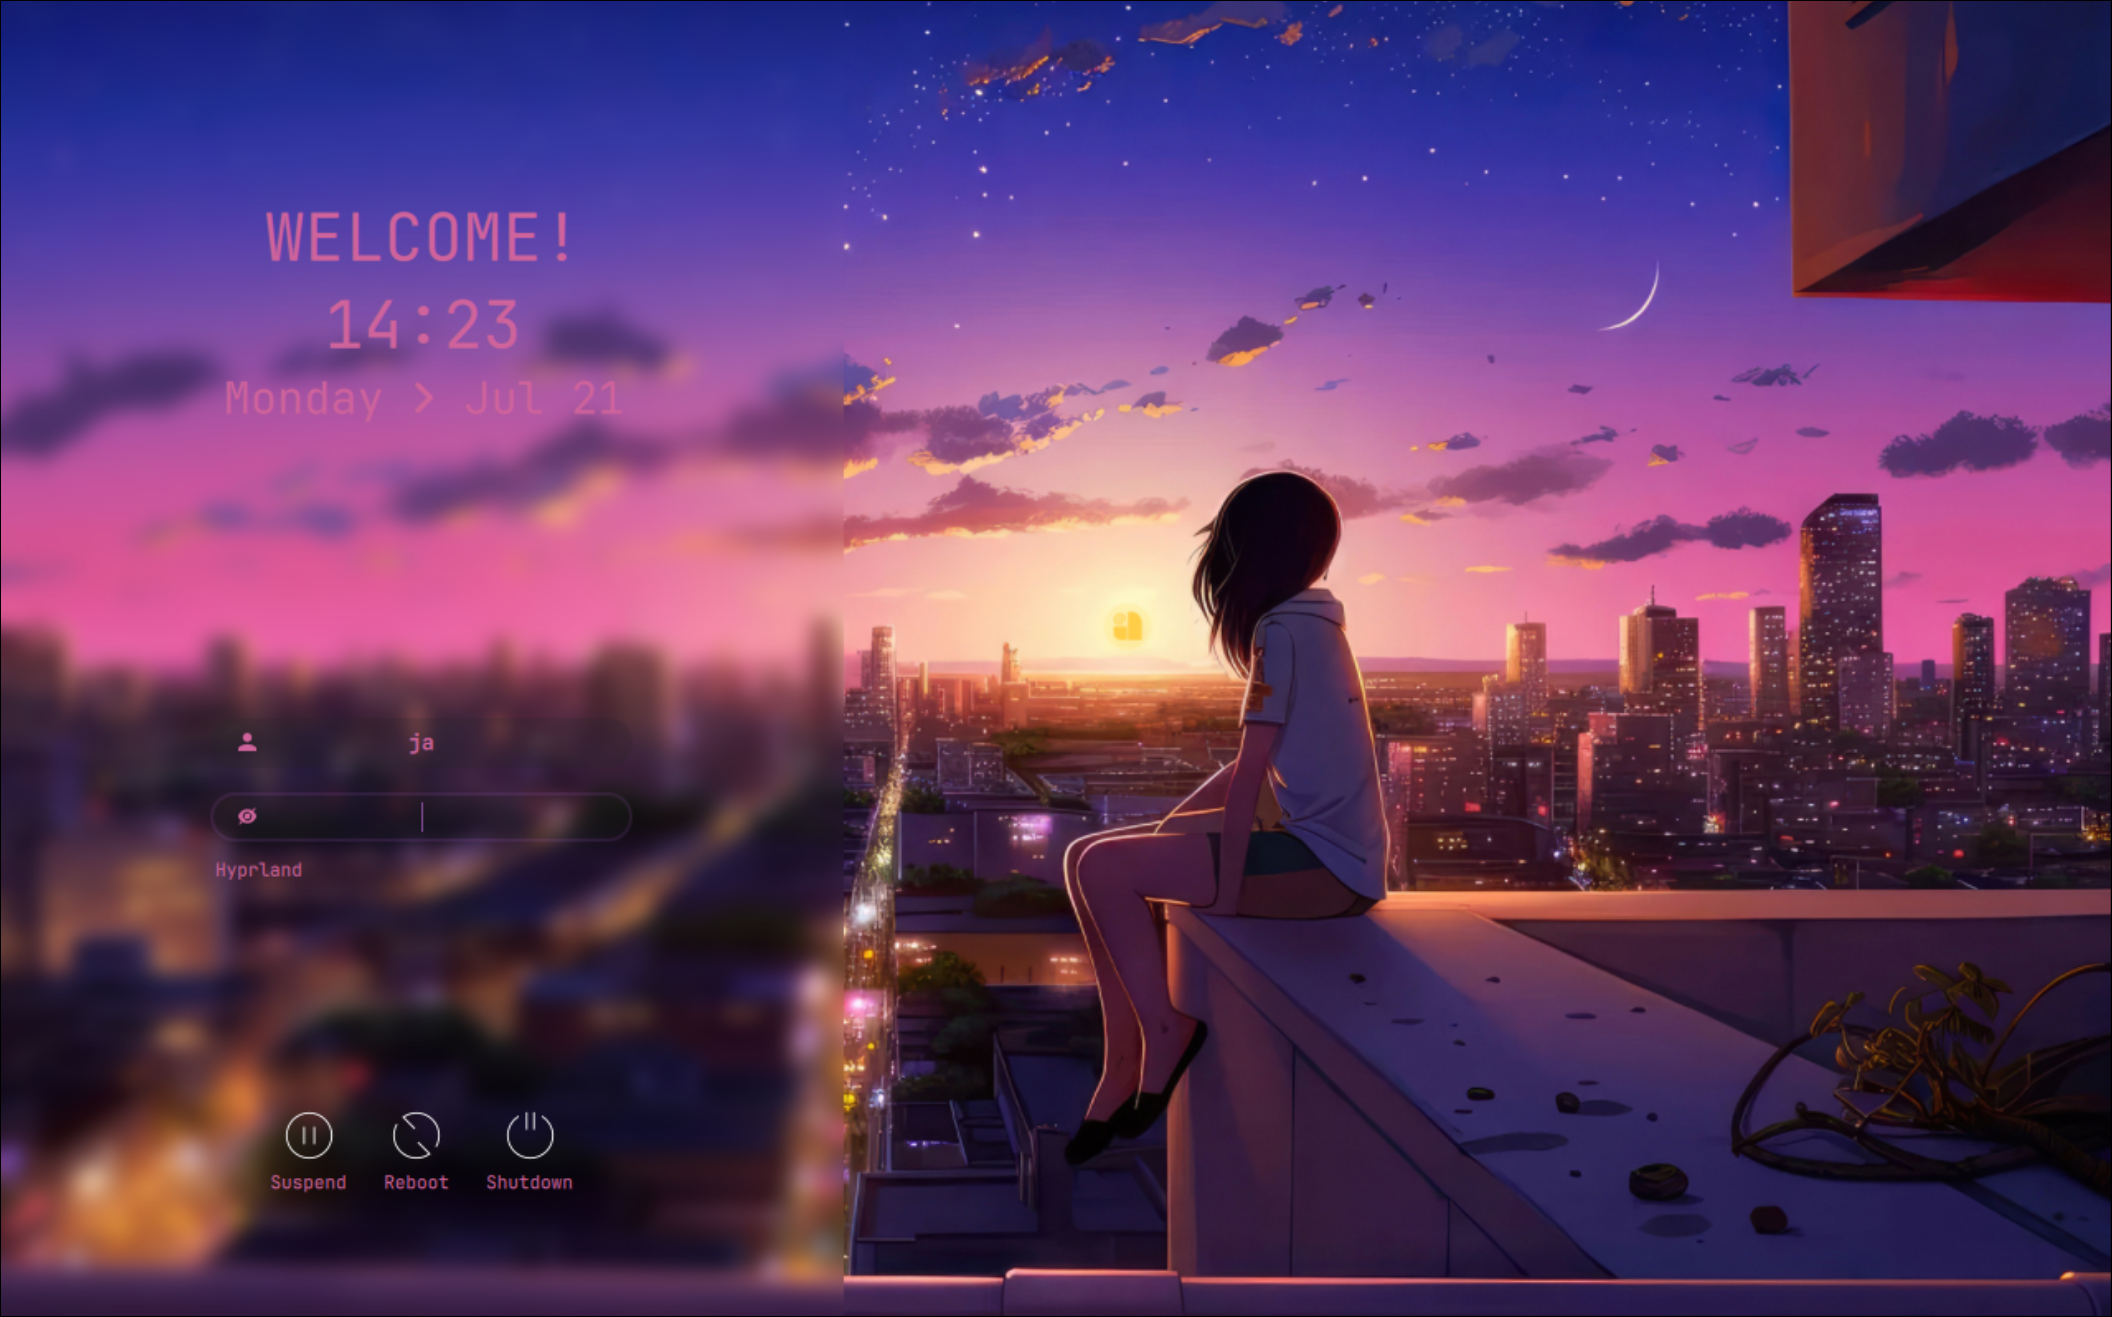
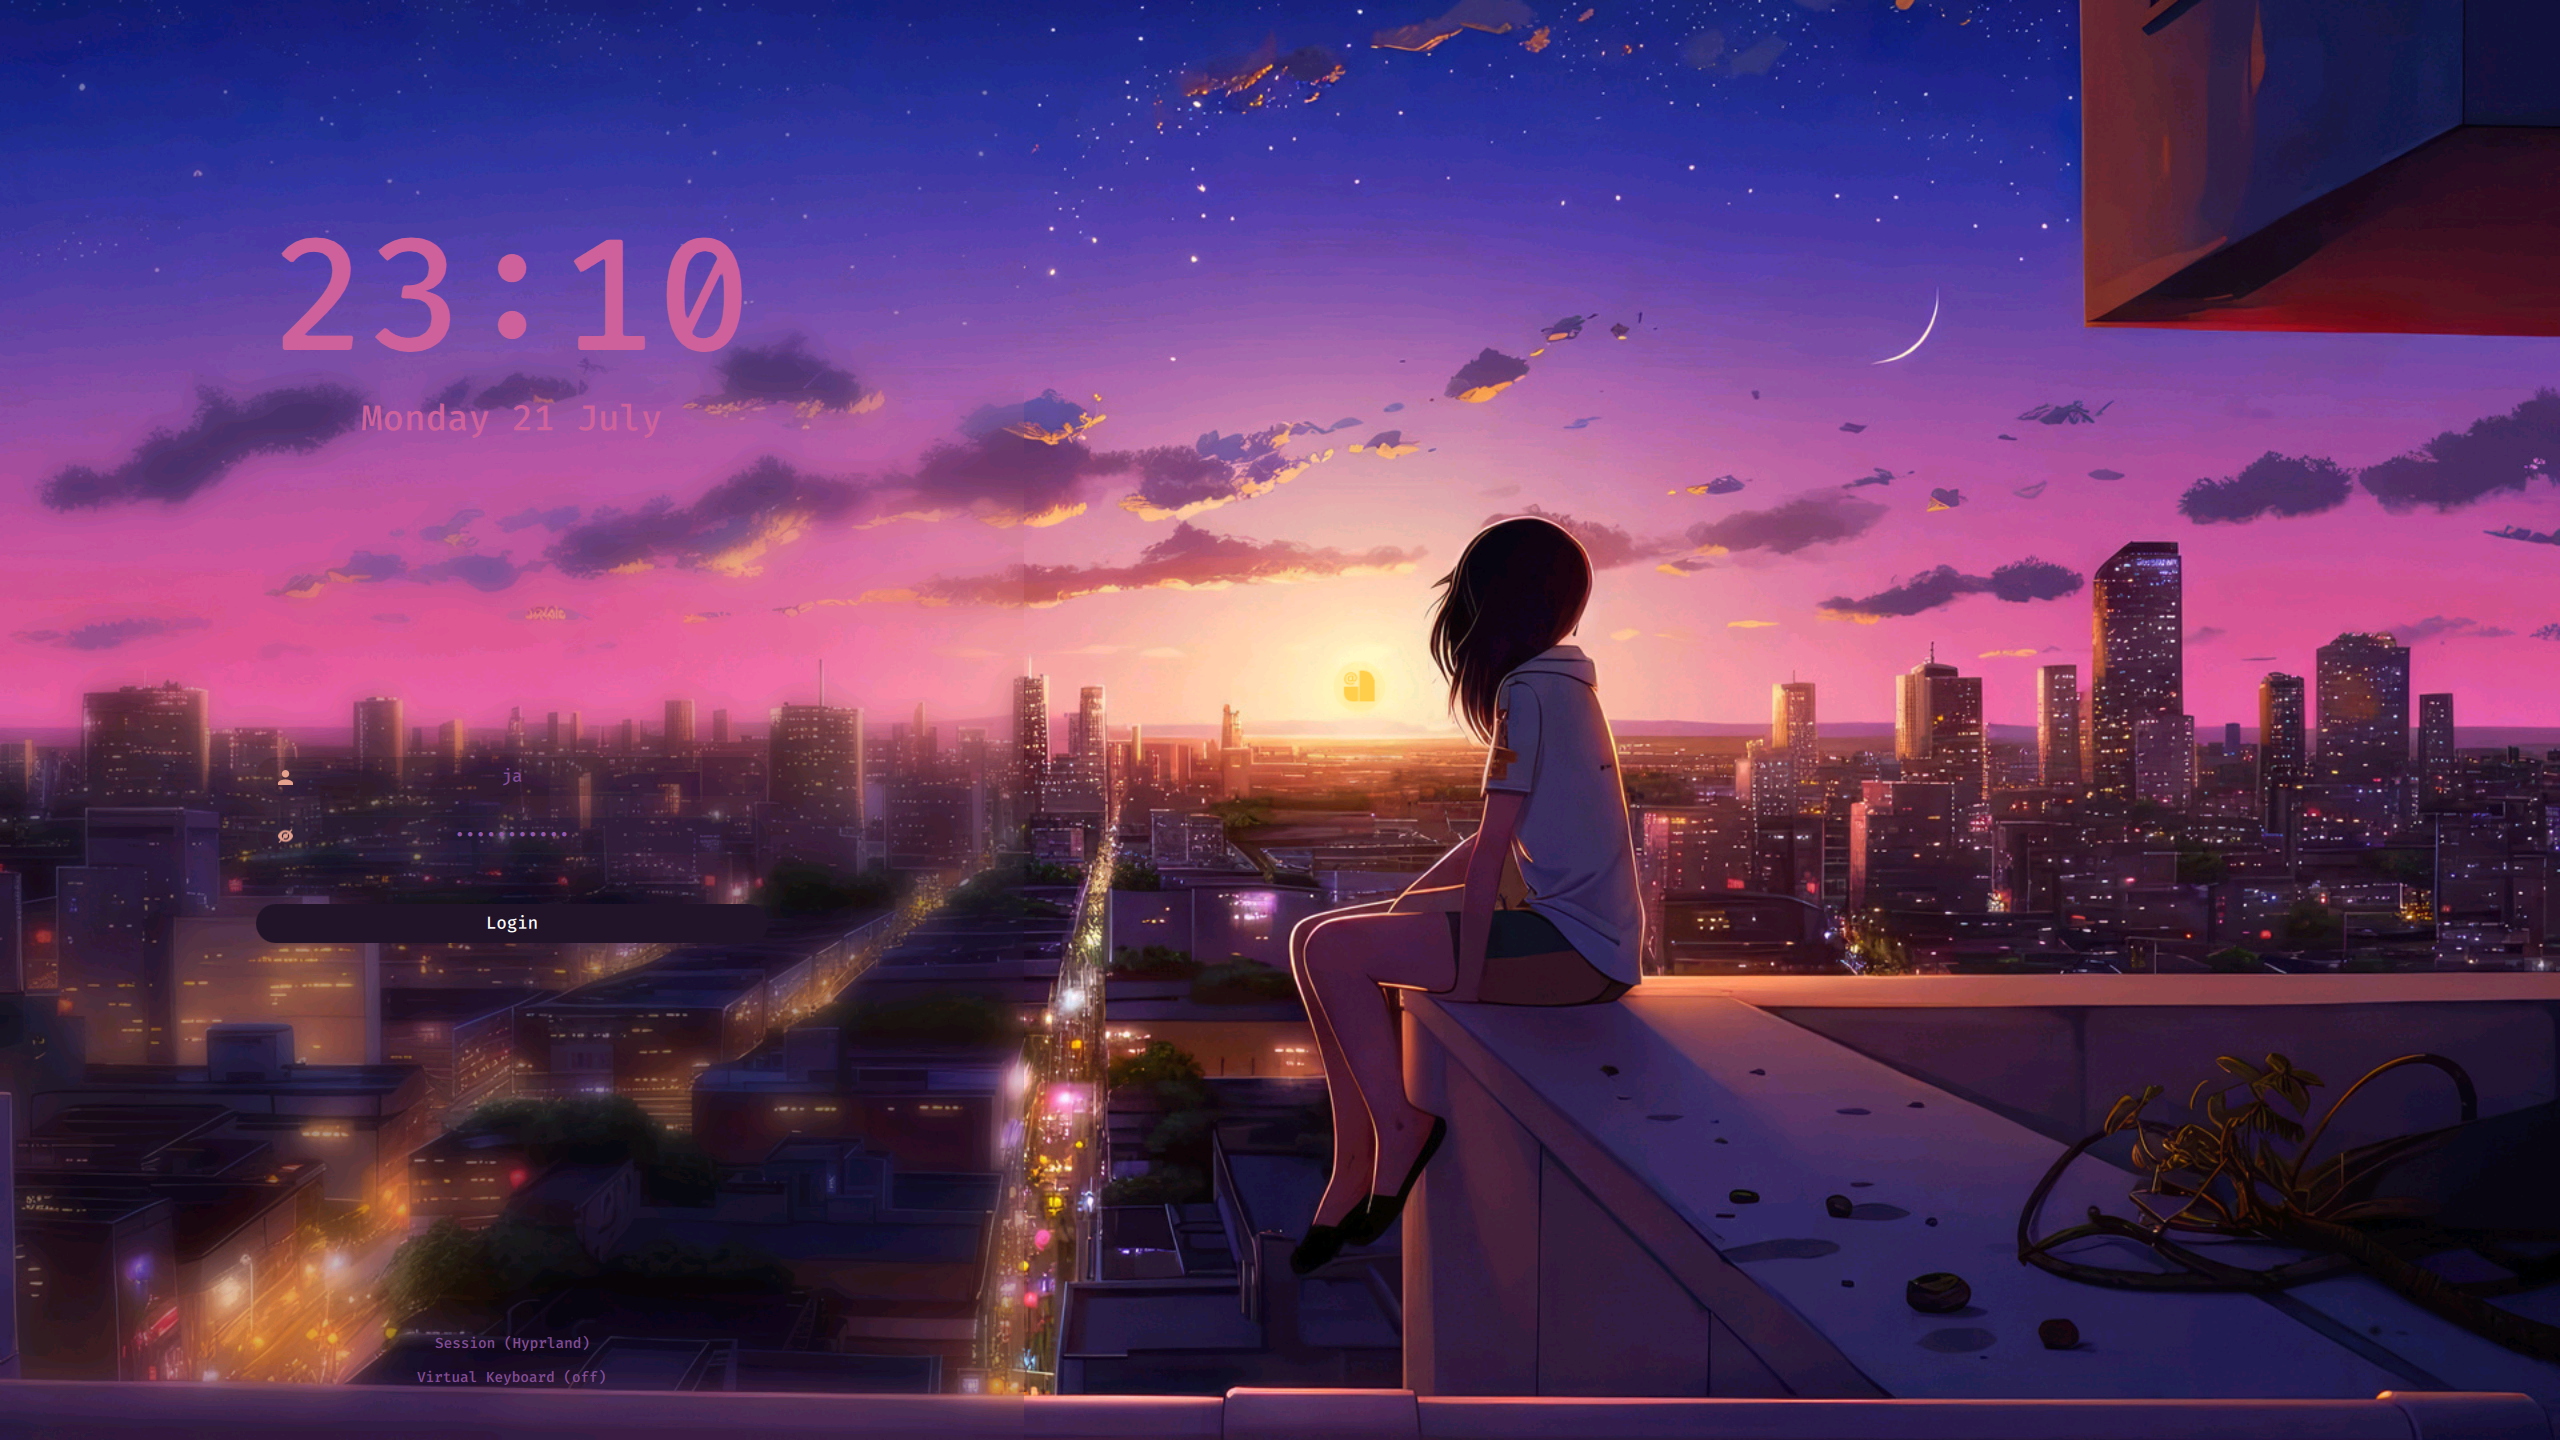
updated readme and preview

diff --git a/README.md b/README.md
@@ -22,38 +22,50 @@ A Simple theme variant for the <a href="https://github.com/sddm/sddm">SDDM Login
 > _Assumes that you've installed and configured SDDM correctly_ (if not [read more](https://wiki.archlinux.org/title/SDDM))
 
 >  Please make sure you have the following dependencies installed:
+
+[`sddm >= 0.21.0`](https://github.com/sddm/sddm), [`qt6 >= 6.8`](https://doc.qt.io/qt-6/index.html), [`qt6-svg >= 6.8`](https://doc.qt.io/qt-6/qtsvg-index.html), [`qt6-virtualkeyboard >= 6.8`](https://doc.qt.io/qt-6/qtvirtualkeyboard-index.html), [`qt6-multimedia >= 6.8`](https://doc.qt.io/qt-6/qtmultimedia-index.html)
+
 - [`For Arch Linux`]
-`qt6-5compat` `qt6-declarative` `qt6-svg` `sddm` 
+`sddm` `qt6-svg` `qt6-virtualkeyboard` `qt6-multimedia-ffmpeg`
 
 - [`For Fedora Linux`]
-`qt6-qt5compat` `qt6-qtdeclarative` `qt6-qtsvg` `sddm` 
+`sddm` `qt6-qtsvg` `qt6-qtvirtualkeyboard` `qt6-qtmultimedia`
 
 - [`For OpenSuse TW`]
-`qt6-qt5compat` `qt6-declarative` `qt6-svg` `sddm-qt6` 
+`sddm-qt6` `libQt6Svg6` `qt6-virtualkeyboard` `qt6-virtualkeyboard-imports` `qt6-multimedia` `qt6-multimedia-imports`  
+
 
 ## Configure
 
-Edit the or create if it does not exist `/etc/sddm.conf.d/theme.conf.user` (with any text editor with **raised** privileges), so that it looks like this:
+Edit the or create if it does not exist `/etc/sddm.conf` (with any text editor with **raised** privileges), so that it looks like this:
 
 ```bash
-sudo nano /etc/sddm.conf.d/theme.conf.user # use any text editor with raised privileges
----
+sudo nano /etc/sddm.conf # use any text editor with raised privileges
+```
 
+add this lines
+
+```sh
 [Theme]
-Current=simple-sddm-2
-   ```
+Current=simple_sddm_2
+
+[General]
+InputMethod=qtvirtualkeyboard
+
+```
+
 
 ### Language and time format
 - By default, it is configured with 24H format. You can change to AM/PM variant by editing the theme.conf
 ```bash
-sudo nano /usr/share/sddm/themes/simple-sddm-2/theme.conf  # use any text editor with raised privileges
+sudo nano /usr/share/sddm/themes/simple_sddm_2/theme.conf  # use any text editor with raised privileges
 ```
 - `HourFormat="hh:mm AP` . Make sure to disable the above of this part
 
 ### 🖼 Default SDDM background
-- To change the default background, put desired image in the `/usr/share/sddm/themes/simple-sddm-2/Backgrounds/` folder and add the name of the image followed by its extension (`.jpg` or `.png`) in `theme.conf` file.
+- To change the default background, put desired image in the `/usr/share/sddm/themes/simple_sddm_2/Backgrounds/` folder and add the name of the image followed by its extension (`.jpg` or `.png`) in `theme.conf` file.
 
-- You can also customize it further if you wish in the `/usr/share/sddm/themes/simple-sddm-2/theme.conf`
+- You can also customize it further if you wish in the `/usr/share/sddm/themes/simple_sddm_2/theme.conf`
 (blur, form position, etc).
 
 ## Credits
